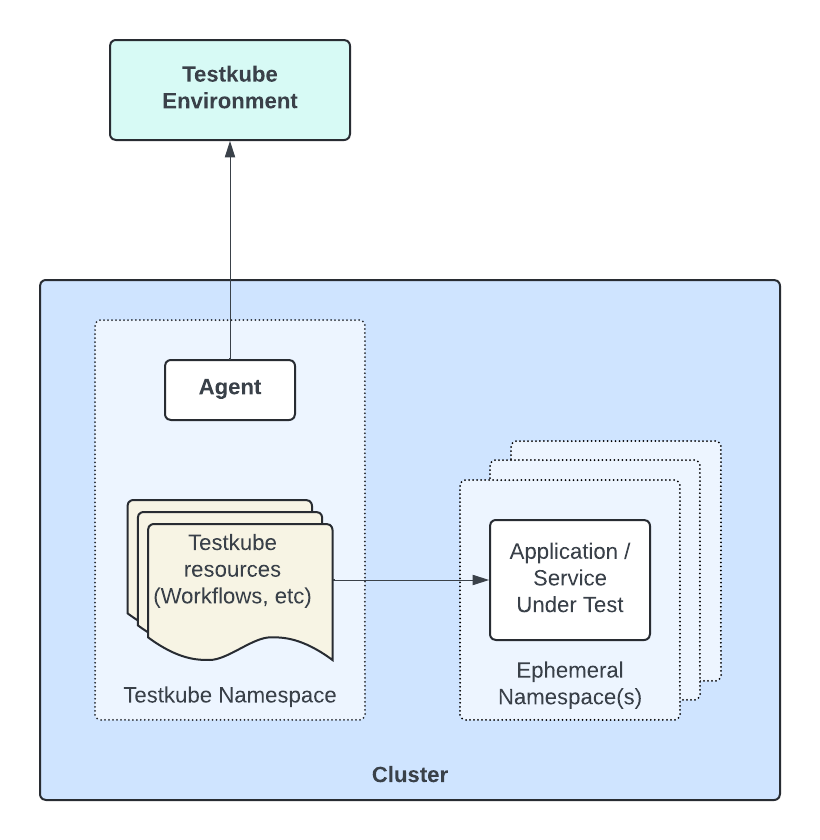
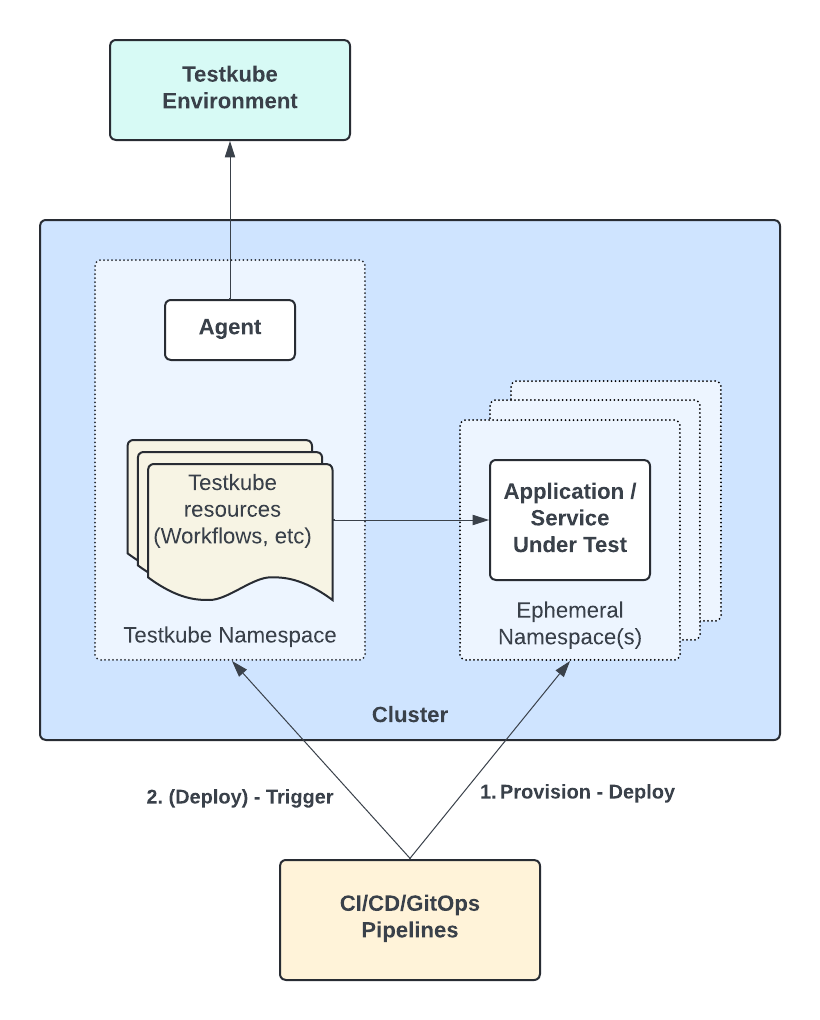
ephemeral namespaces updates

diff --git a/docs/articles/ephemeral-environments.md b/docs/articles/ephemeral-environments.md
@@ -77,12 +77,13 @@ Instead of provisioning ephemeral clusters, it is not uncommon to use ephemeral 
 for the same purpose. Combined with Testkubes `executionNamespace` functionality you can in this scenario avoid
 having to install the Testkube Agent in each ephemeral namespace;
 
-- Install the Agent and all required Testkube resources in a dedicated namespace (`testkube` by default).
-- Use the `executionNamespace` property to execute your Workflow in other (ephemeral) namespaces.
+- Install the Testkube Agent in a dedicated namespace (`testkube` by default).
+- Deploy Testkube Resources (Workflows, etc.) to the same namespace, possibly dynamically as part of your CI/CD Pipelines
+- Use the `executionNamespace` property in your Workflows to configure in which namespace they should execute,  
+  either statically or dynamically as shown below.
 - Trigger the execution of these Workflows as you would normally from CI/CD, Kubernetes Events, etc. 
 
 ![Ephemeral Namespaces](images/ephemeral-namespaces.png)
-
 
 ### Runtime `executionNamespace` configuration
 
